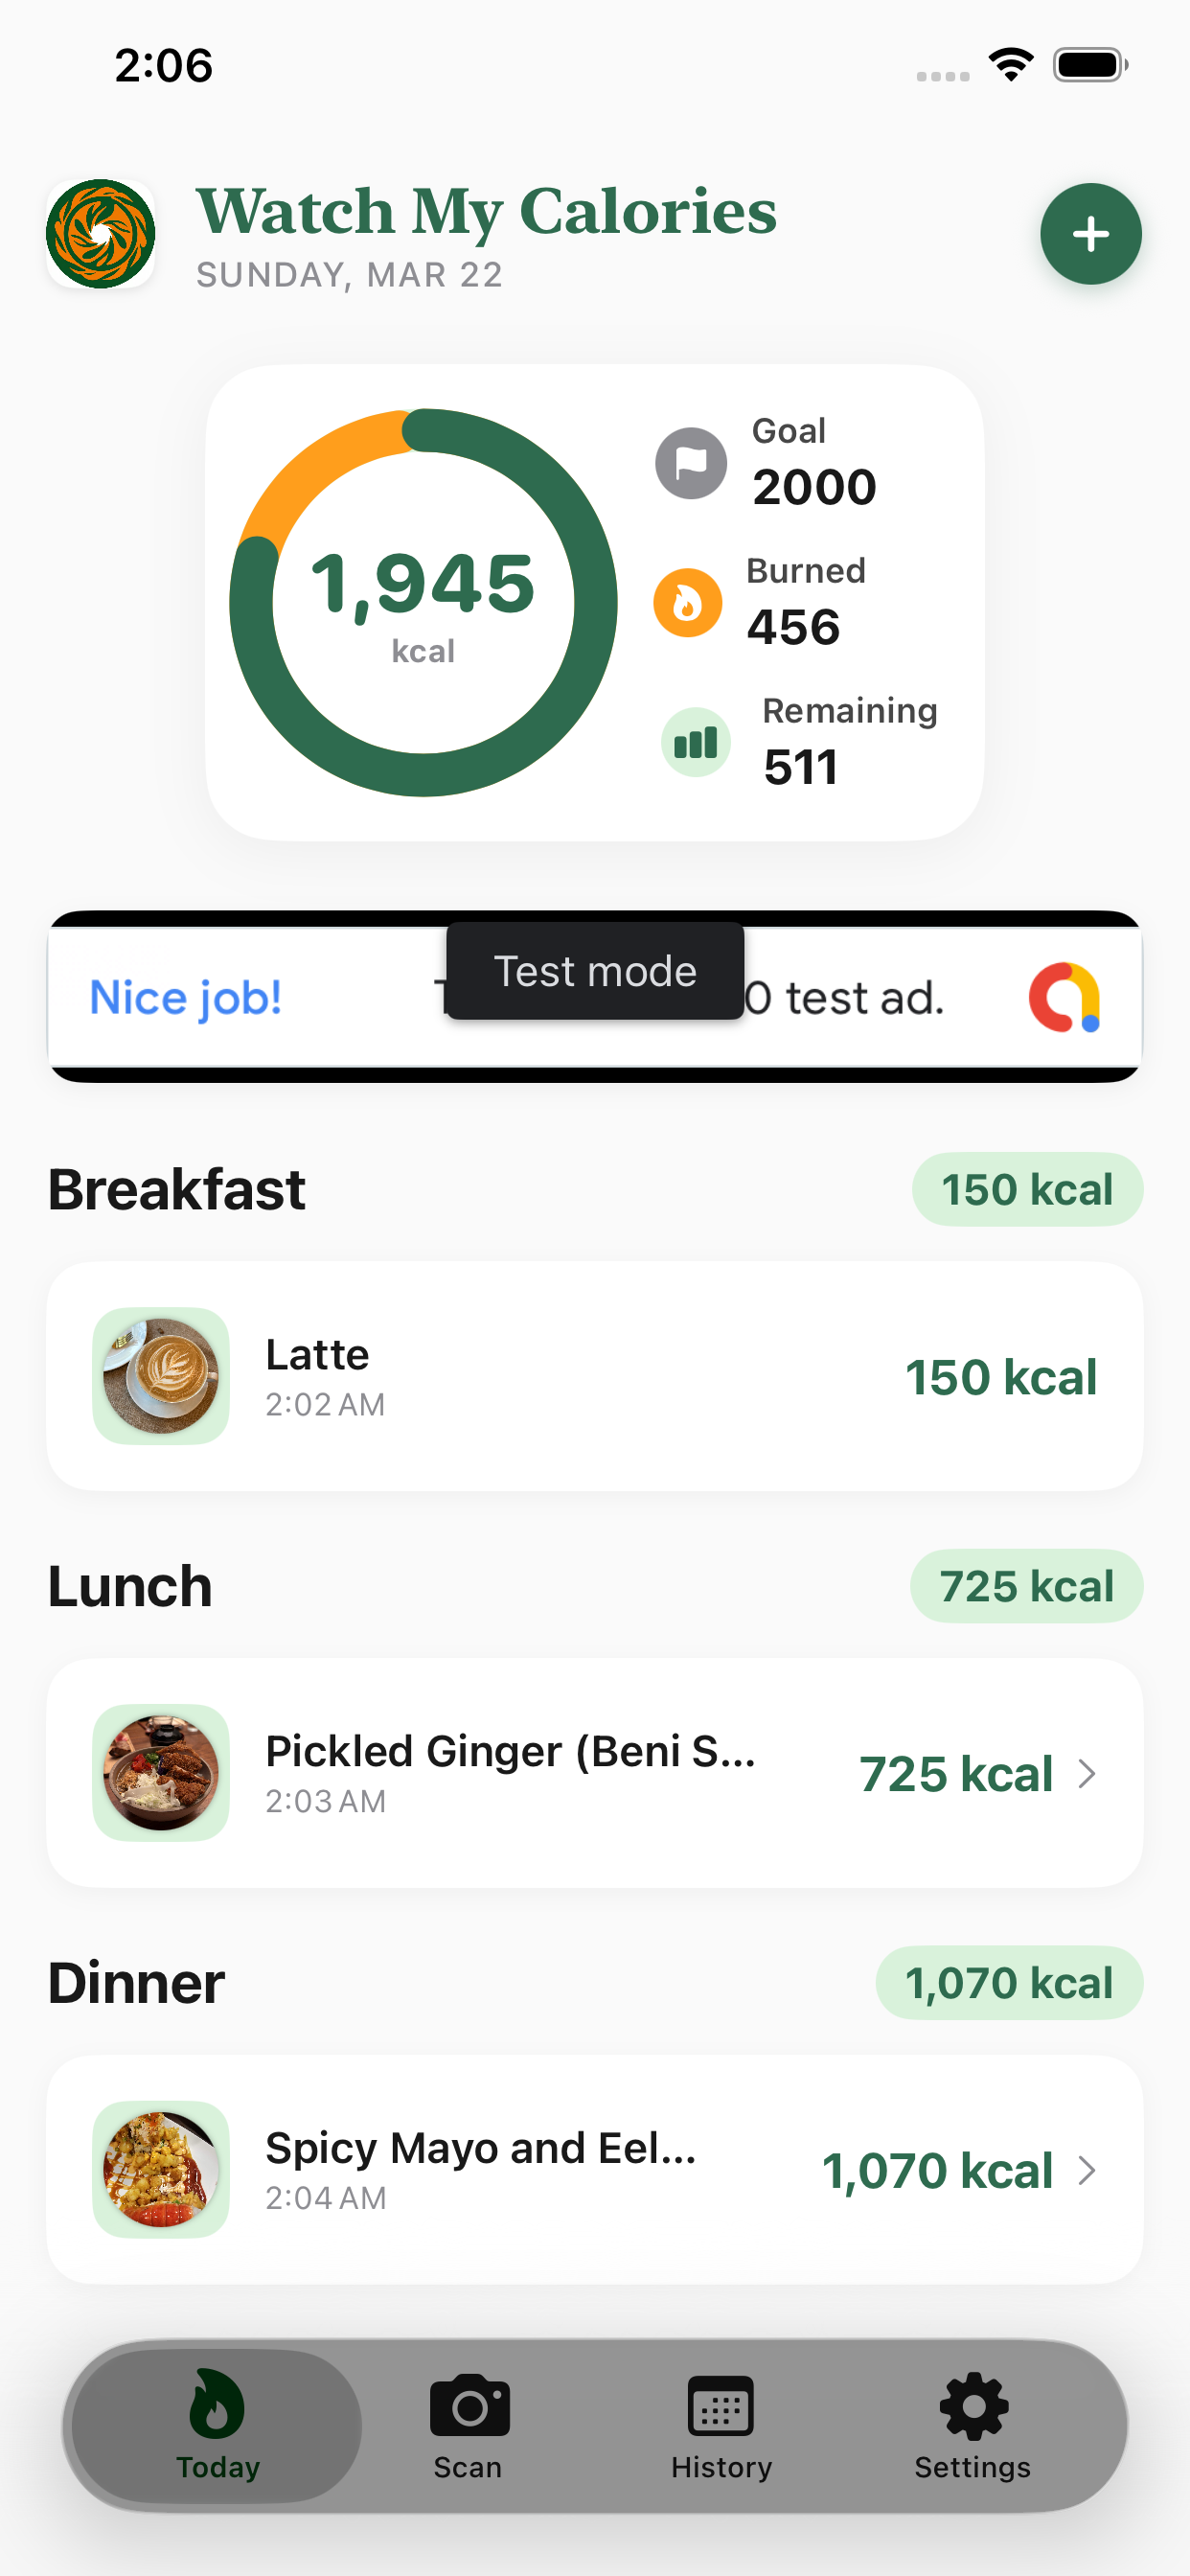
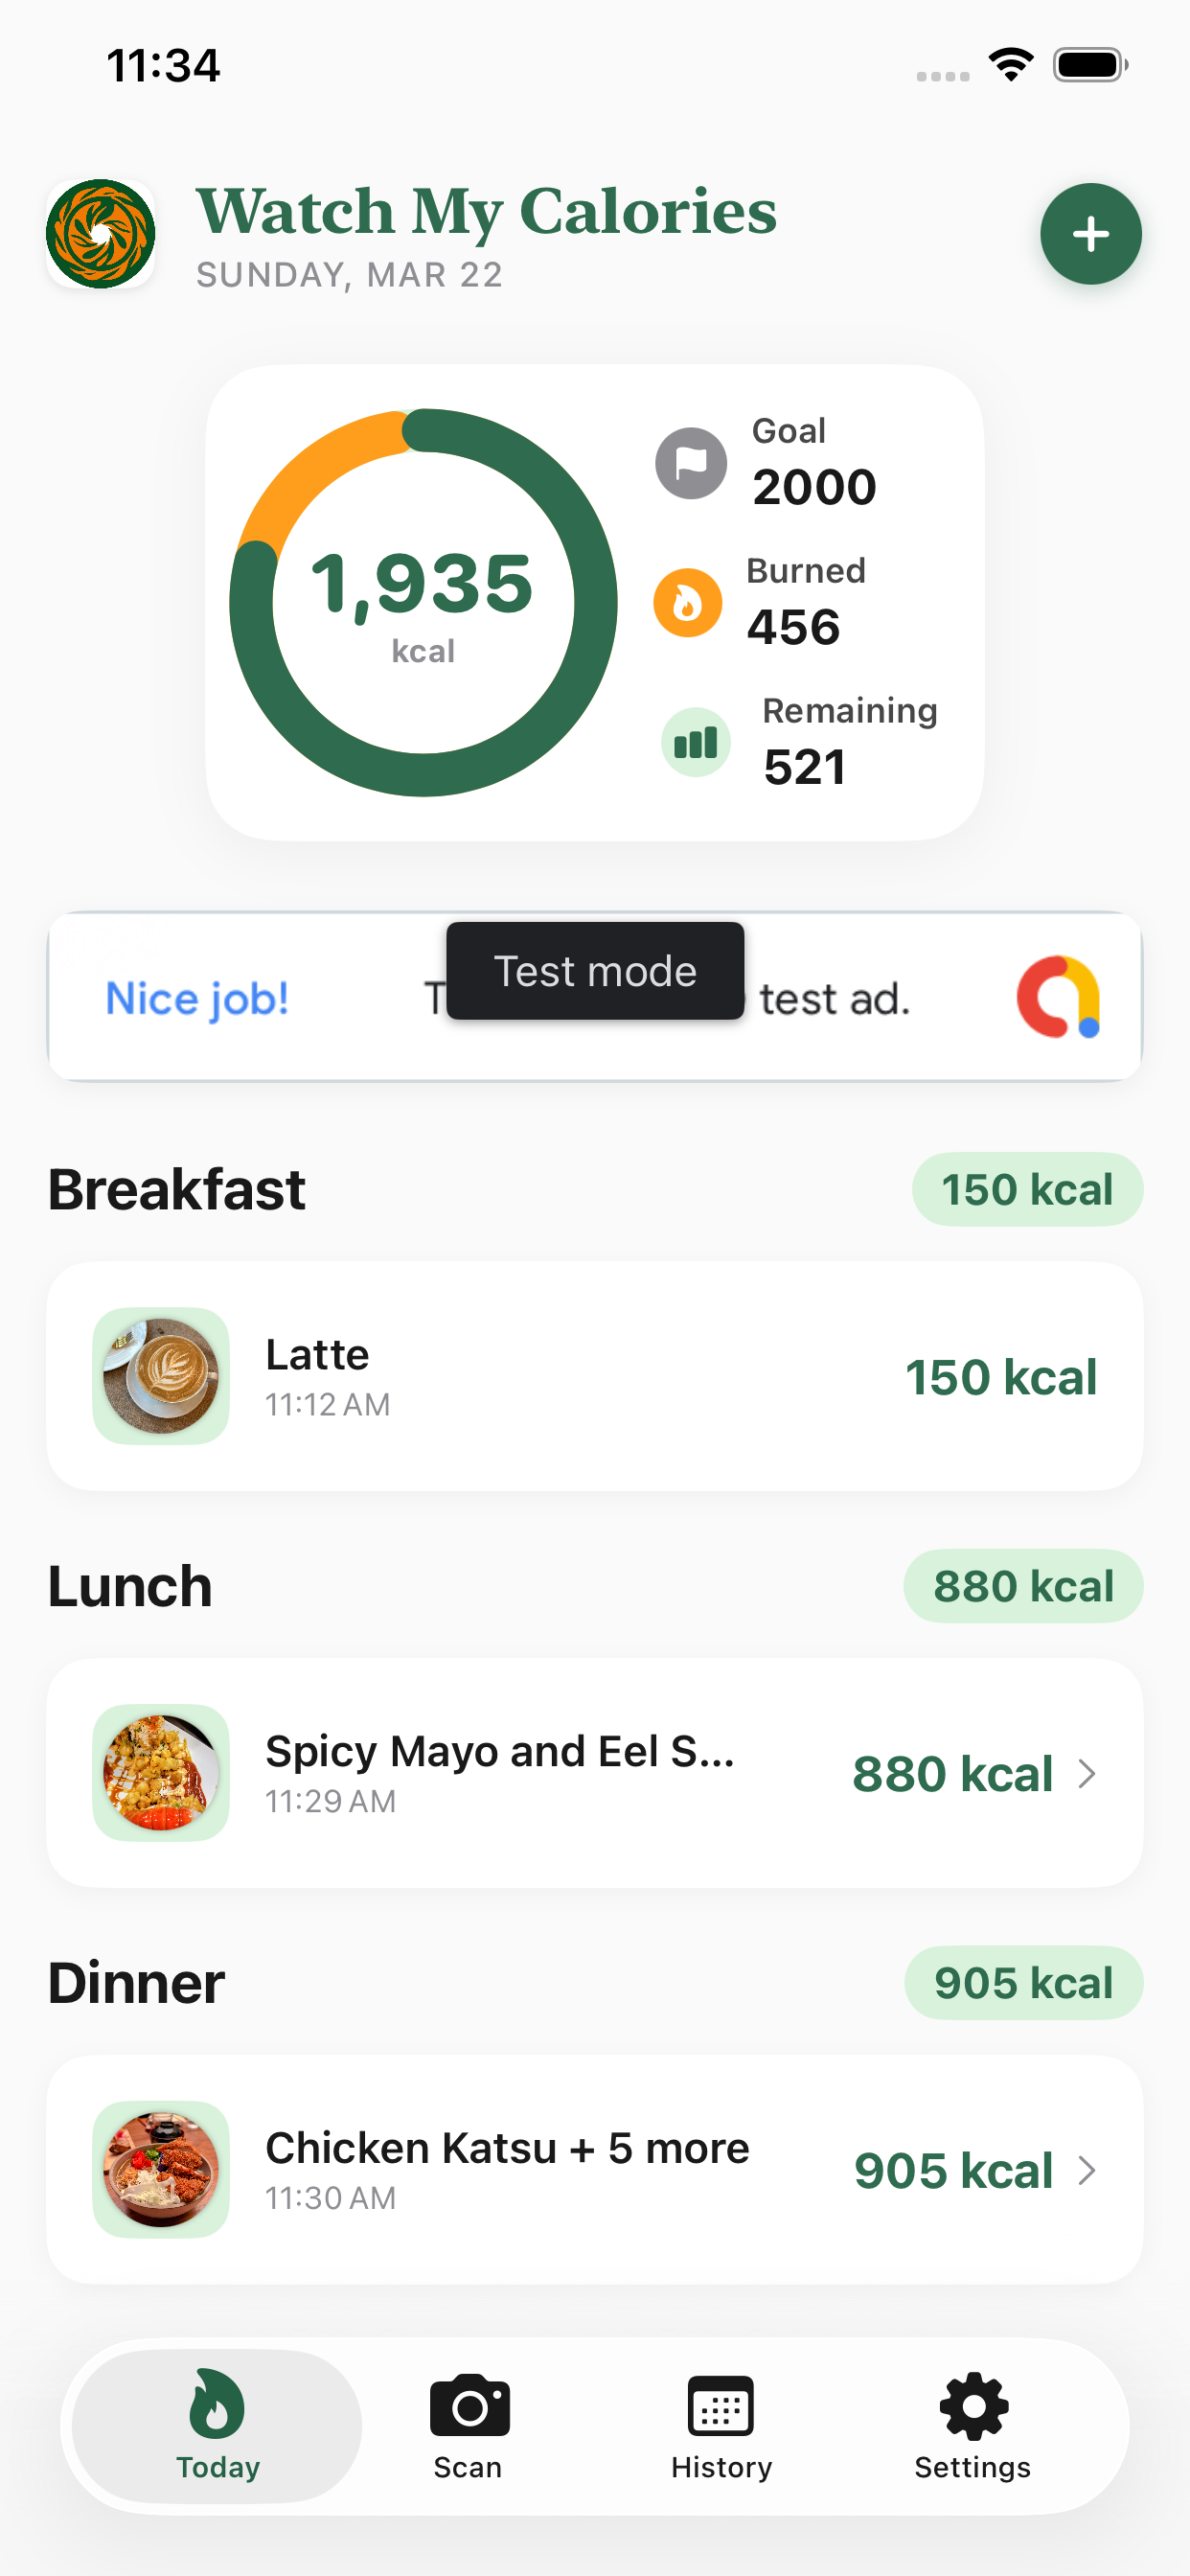
Update Set-Up.md to build 6, refresh screenshots and food photos

diff --git a/AppStore/V1.3.0/Set-Up.md b/AppStore/V1.3.0/Set-Up.md
@@ -297,7 +297,7 @@ No CCATS or ERN number is needed. Apple's standard HTTPS exemption applies.
 
 1. Verify version and build number in Xcode:
    - **Marketing Version**: `1.3.0`
-   - **Build Number**: `4`
+   - **Build Number**: `6`
 2. In Xcode: **Product → Archive**
 3. In the Organizer window: select the archive → **Distribute App → App Store Connect**
 4. Follow the wizard (automatic signing recommended)
@@ -329,7 +329,7 @@ Since this is an update, most settings (like Privacy, Categories, and Age Rating
 - [ ] **Marketing URL** — Set this to `https://pning80.github.io` so AdMob can find `app-ads.txt`.
 - [ ] **Support URL** — Keep as `https://gist.github.com/pning80/7dc8a85c83edcc03845d182386cab470`.
 - [ ] **Upload Build** — Archive and upload V1.3.0 via Xcode. See Section 7.
-- [ ] **Select Build** — Choose the uploaded 1.3.0 (build 4) build in App Store Connect.
+- [ ] **Select Build** — Choose the uploaded 1.3.0 (build 6) build in App Store Connect.
 - [ ] **App Review Notes** — Updated to include photo library flow. See Section 5.
 - [ ] **Screenshots** — UI changed (new photo library option, camera denied view). See Section 3.
 